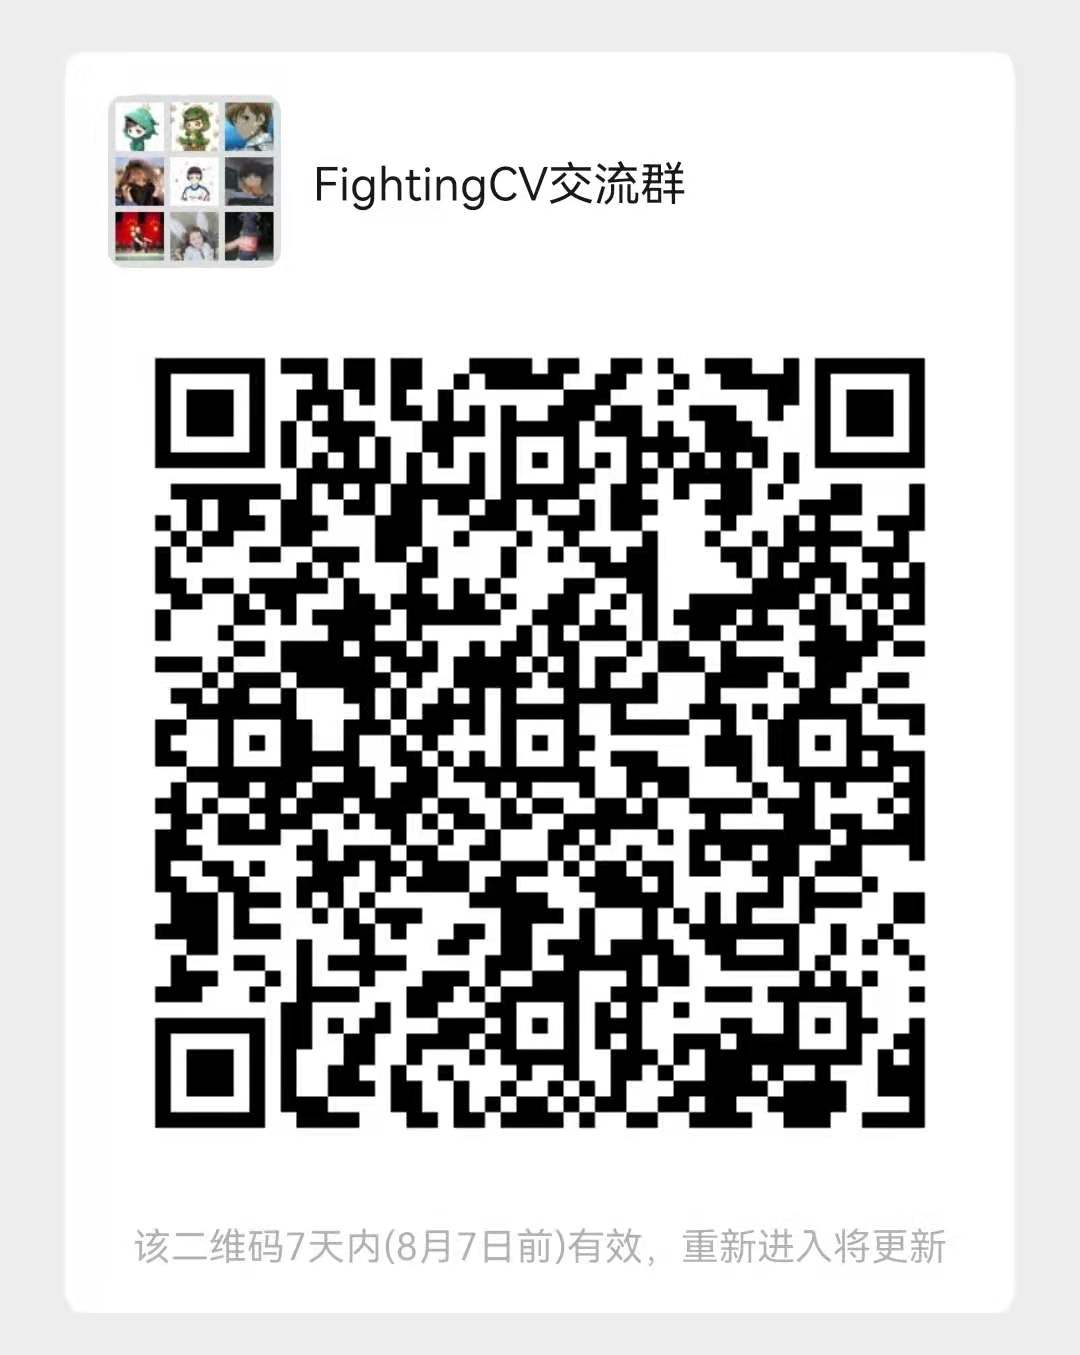
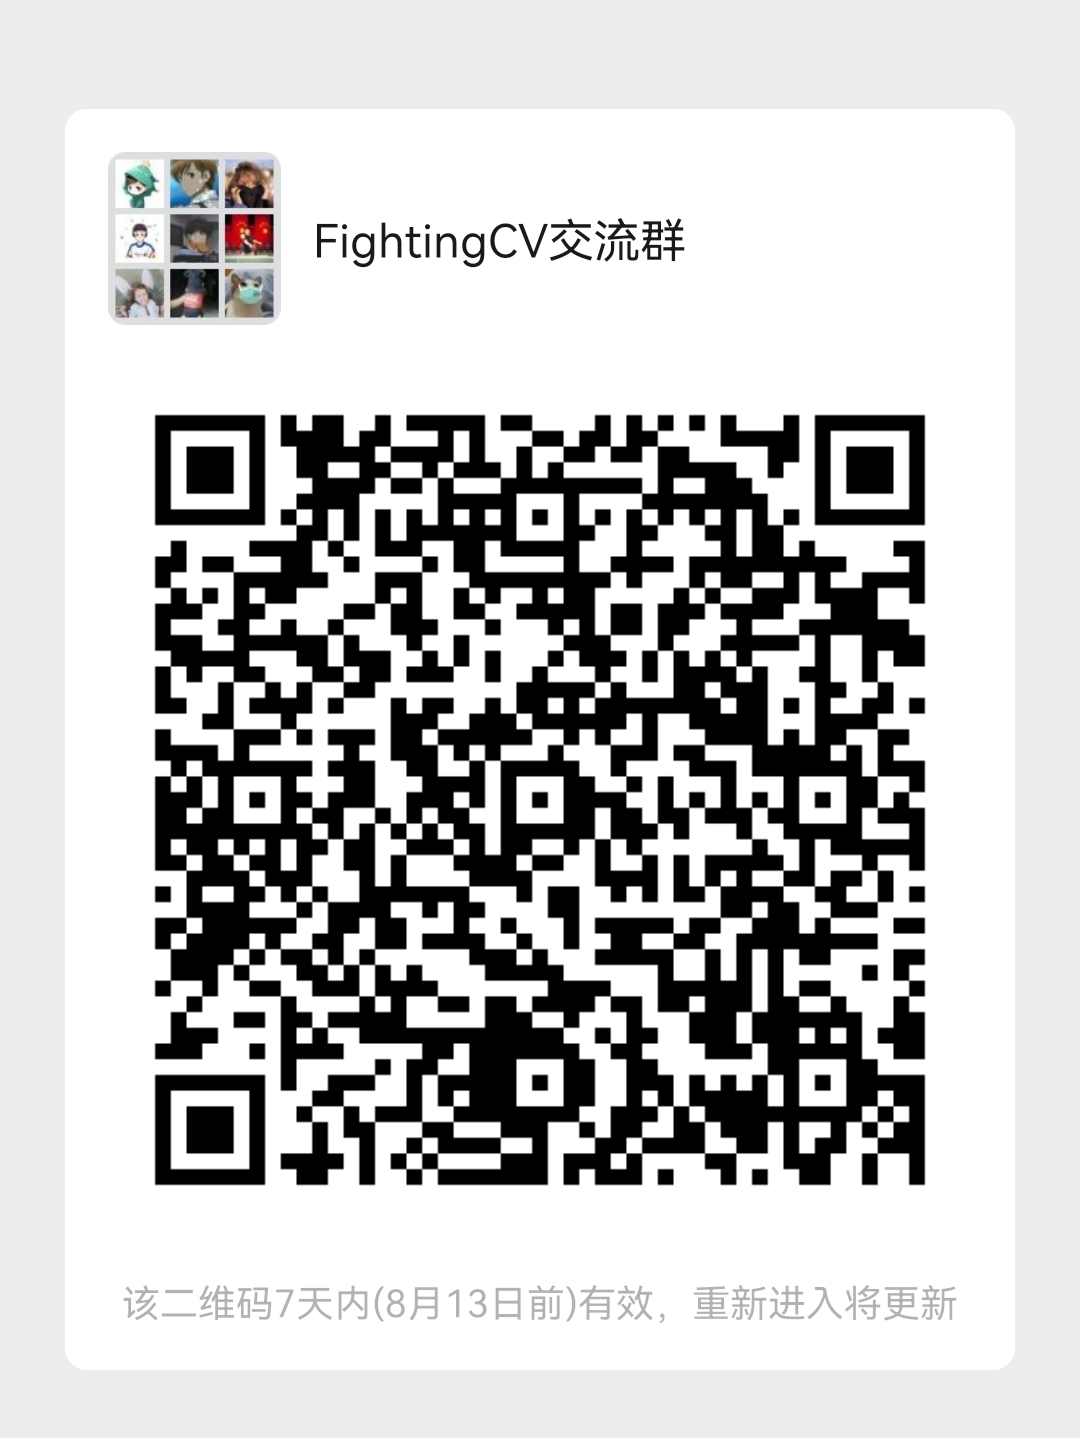
readme

Changed region(s): [[0.0917, 0.062, 0.8556, 0.8369], [0.1222, 0.8989, 0.8861, 0.9299]]

diff --git a/README.md b/README.md
@@ -61,7 +61,10 @@
 
 强烈推荐大家关注[**知乎**](https://www.zhihu.com/people/jason-14-58-38/posts)账号和[**FightingCV公众号**](https://mp.weixin.qq.com/s/sgNw6XFBPcD20Ef3ddfE1w)，可以快速了解到最新优质的干货资源。
 
+微信群1（如果满了就加2群）：
+![](./tmpimg/wechat.jpg)
 
+微信群2：
 ![](./tmpimg/wechat.jpg)
 
 
